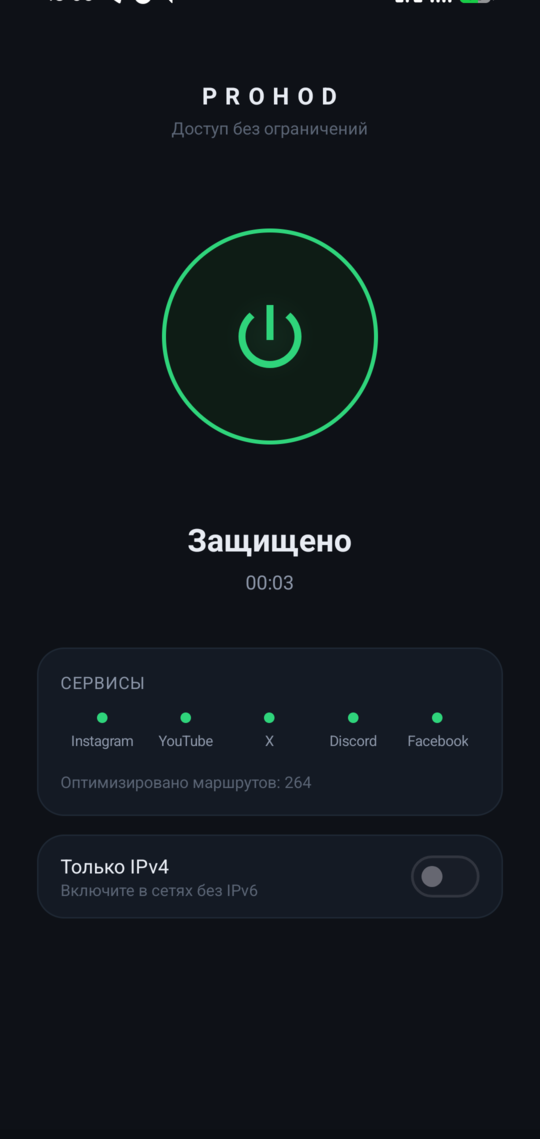
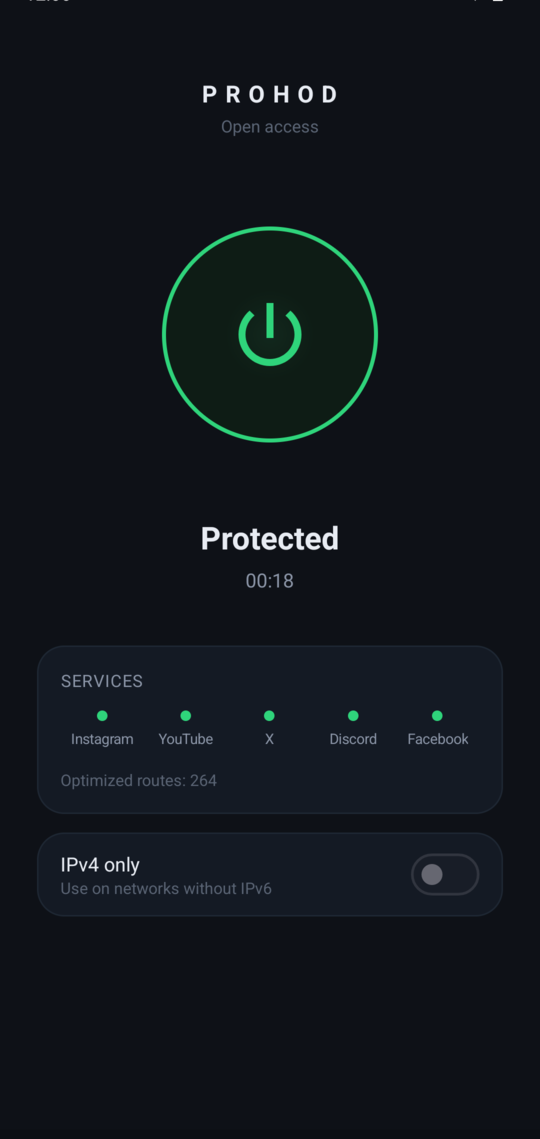
english ui and screenshots

diff --git a/frontend/src/main.ts b/frontend/src/main.ts
@@ -21,12 +21,12 @@ const icons = {
 const esc = (s: string) => s.replace(/[&<>"']/g, c => ({'&': '&amp;', '<': '&lt;', '>': '&gt;', '"': '&quot;', "'": '&#39;'}[c]!));
 
 function bytes(n: number): string {
-  const u = ['Б', 'КБ', 'МБ', 'ГБ', 'ТБ'];
+  const u = ['B', 'KB', 'MB', 'GB', 'TB'];
   let i = 0;
   while (n >= 1024 && i < u.length - 1) { n /= 1024; i++; }
   return (i === 0 ? n.toFixed(0) : n.toFixed(n < 10 ? 1 : 0)) + ' ' + u[i];
 }
-const speed = (n: number) => bytes(n) + '/с';
+const speed = (n: number) => bytes(n) + '/s';
 function dur(ms: number): string {
   const s = Math.max(0, Math.floor(ms / 1000));
   const h = Math.floor(s / 3600), m = Math.floor(s / 60) % 60, ss = s % 60;
@@ -36,9 +36,9 @@ function dur(ms: number): string {
 function ago(ms: number): string {
   if (!ms) return '';
   const s = Math.floor((Date.now() - ms) / 1000);
-  if (s < 60) return 'только что';
-  if (s < 3600) return `${Math.floor(s / 60)} мин назад`;
-  return `${Math.floor(s / 3600)} ч назад`;
+  if (s < 60) return 'just now';
+  if (s < 3600) return `${Math.floor(s / 60)} min ago`;
+  return `${Math.floor(s / 3600)} h ago`;
 }
 
 let tab = 'home';
@@ -53,10 +53,10 @@ app.innerHTML = `
   <div class="titlebar"></div>
   <main id="view"></main>
   <nav>
-    <button data-tab="home">${icons.home}Главная</button>
-    <button data-tab="services">${icons.grid}Сервисы</button>
-    <button data-tab="log">${icons.list}Журнал</button>
-    <button data-tab="settings">${icons.gear}Настройки</button>
+    <button data-tab="home">${icons.home}Home</button>
+    <button data-tab="services">${icons.grid}Services</button>
+    <button data-tab="log">${icons.list}Log</button>
+    <button data-tab="settings">${icons.gear}Settings</button>
   </nav>
   <div class="toast" id="toast"></div>`;
 const view = document.getElementById('view')!;
@@ -88,12 +88,12 @@ async function toggle() {
 function homeView(): string {
   const on = st.state === 'on';
   const busy = st.state === 'connecting' || st.state === 'stopping';
-  const title = on ? 'Защищено' : busy ? (st.state === 'connecting' ? 'Подключение' : 'Отключение') : 'Не подключено';
-  const sub = on ? dur(Date.now() - st.since) : (st.message || 'Нажмите, чтобы включить');
+  const title = on ? 'Protected' : busy ? (st.state === 'connecting' ? 'Connecting' : 'Disconnecting') : 'Not connected';
+  const sub = on ? dur(Date.now() - st.since) : (st.message || 'Tap to turn on');
   const s = snap;
   const checks = (st.checks || []).map(c => {
     const cls = !c.done ? 'wait' : c.ok ? 'ok' : 'bad';
-    const r = !c.done ? 'проверка…' : c.ok ? `доступен · ${c.ms} мс` : 'недоступен';
+    const r = !c.done ? 'checking…' : c.ok ? `reachable · ${c.ms} ms` : 'unreachable';
     return `<div class="check"><span>${esc(c.name)}</span><span class="r">${r}<span class="dot ${cls}"></span></span></div>`;
   }).join('');
   return `
@@ -102,8 +102,8 @@ function homeView(): string {
       <button class="power ${on ? 'on' : ''} ${busy ? 'busy' : ''}" id="power" aria-label="toggle">${icons.power}</button>
       <div class="state"><div class="title">${title}</div><div class="sub">${esc(sub)}</div></div>
       <div class="metrics">
-        <div class="metric"><div class="k">${icons.down} Получено</div><div class="v">${s ? bytes(s.bytesIn) : '—'}</div><div class="s">${s && on ? speed(s.speedIn) : ''}</div></div>
-        <div class="metric"><div class="k">${icons.up} Отправлено</div><div class="v">${s ? bytes(s.bytesOut) : '—'}</div><div class="s">${s && on ? speed(s.speedOut) : ''}</div></div>
+        <div class="metric"><div class="k">${icons.down} Received</div><div class="v">${s ? bytes(s.bytesIn) : '—'}</div><div class="s">${s && on ? speed(s.speedIn) : ''}</div></div>
+        <div class="metric"><div class="k">${icons.up} Sent</div><div class="v">${s ? bytes(s.bytesOut) : '—'}</div><div class="s">${s && on ? speed(s.speedOut) : ''}</div></div>
       </div>
       ${checks ? `<div class="checks">${checks}</div>` : ''}
     </div>`;
@@ -113,20 +113,20 @@ function servicesView(): string {
   const svcs = (snap?.services || []);
   const rows = svcs.map(v => {
     const used = v.ok + v.failed;
-    let cls = '', meta = 'нет активности';
+    let cls = '', meta = 'no activity';
     if (v.active > 0 || used > 0) {
       const rate = used ? v.ok / used : 1;
       cls = v.lastOk >= v.lastFail ? 'ok' : rate >= 0.5 ? 'wait' : 'bad';
-      meta = `${bytes(v.bytesIn + v.bytesOut)} · ${v.active ? 'активно' : ago(Math.max(v.lastOk, v.lastFail))}`;
+      meta = `${bytes(v.bytesIn + v.bytesOut)} · ${v.active ? 'active' : ago(Math.max(v.lastOk, v.lastFail))}`;
     }
     return `<div class="row"><span class="dot ${cls}"></span><div class="name">${esc(v.name)}</div><div class="meta">${meta}</div></div>`;
   }).join('');
   return `
-    <h2>Сервисы</h2>
-    <div class="card">${rows || '<div class="empty">Подключитесь, чтобы увидеть активность</div>'}</div>
-    <p class="hint">Зелёный — соединения проходят. Красный — сервис не отвечает в вашей сети.
-      Оптимизировано маршрутов: ${st.pinned}. Остальные сайты подбираются автоматически.</p>
-    ${snap ? `<p class="hint">Соединений: ${snap.connections} активно · ${snap.total} всего · ${snap.failed} без ответа</p>` : ''}`;
+    <h2>Services</h2>
+    <div class="card">${rows || '<div class="empty">Connect to see activity</div>'}</div>
+    <p class="hint">Green means connections get through. Red means the service does not answer on your network.
+      Optimized routes: ${st.pinned}. Other sites are handled automatically.</p>
+    ${snap ? `<p class="hint">Connections: ${snap.connections} active · ${snap.total} total · ${snap.failed} no answer</p>` : ''}`;
 }
 
 let logCache: Ent[] = [];
@@ -136,23 +136,23 @@ function logView(): string {
     return `<div class="ln"><span class="t">${t}</span> <span class="${esc(e.level)}">${esc(e.msg)}</span></div>`;
   }).join('');
   return `
-    <h2>Журнал</h2>
-    <div class="card"><div class="log" id="log">${lines || '<div class="empty">Пока пусто</div>'}</div></div>
-    <div class="toolbar"><button class="btn" id="openlogs">Открыть папку с журналом</button></div>`;
+    <h2>Log</h2>
+    <div class="card"><div class="log" id="log">${lines || '<div class="empty">Nothing yet</div>'}</div></div>
+    <div class="toolbar"><button class="btn" id="openlogs">Open log folder</button></div>`;
 }
 
 function settingsView(): string {
   const sw = (id: string, on: boolean) => `<label class="switch"><input type="checkbox" id="${id}" ${on ? 'checked' : ''}><span></span></label>`;
   return `
-    <h2>Настройки</h2>
+    <h2>Settings</h2>
     <div class="card">
-      <div class="row"><div class="name">Подключаться при запуске<div class="desc">Включать защиту сразу после открытия приложения</div></div>${sw('autoConnect', cfg.autoConnect)}</div>
-      <div class="row"><div class="name">Только IPv4<div class="desc">Если в вашей сети нестабилен IPv6. Применится при следующем подключении</div></div>${sw('ipv4Only', cfg.ipv4Only)}</div>
+      <div class="row"><div class="name">Connect on launch<div class="desc">Turn on protection as soon as the app opens</div></div>${sw('autoConnect', cfg.autoConnect)}</div>
+      <div class="row"><div class="name">IPv4 only<div class="desc">For networks where IPv6 is unreliable. Applies on the next connect</div></div>${sw('ipv4Only', cfg.ipv4Only)}</div>
     </div>
-    <h2>О программе</h2>
-    <div class="card"><div class="row"><div class="name">Prohod</div><div class="meta">версия ${esc(version)}</div></div></div>
-    <p class="hint">Работает локально на этом устройстве: без серверов, учётных записей и сбора данных.
-      Сторонние компоненты и их лицензии перечислены в файле LICENSES внутри приложения.</p>`;
+    <h2>About</h2>
+    <div class="card"><div class="row"><div class="name">Prohod</div><div class="meta">version ${esc(version)}</div></div></div>
+    <p class="hint">Runs locally on this device: no servers, no accounts, no data collection.
+      Bundled components and their licenses are listed in the LICENSES file inside the app.</p>`;
 }
 
 function bind() {

diff --git a/android/app/src/main/java/app/prohod/MainActivity.kt b/android/app/src/main/java/app/prohod/MainActivity.kt
@@ -65,7 +65,7 @@ class MainActivity : AppCompatActivity() {
         ipv4Switch.setOnCheckedChangeListener { _, checked -> Prefs.setIpv4Only(this, checked) }
 
         buildServiceChips()
-        routesInfo.text = "Оптимизировано маршрутов: ${Profile.pinnedCount(this)}"
+        routesInfo.text = "Optimized routes: ${Profile.pinnedCount(this)}"
     }
 
     private fun buildServiceChips() {
@@ -139,26 +139,26 @@ class MainActivity : AppCompatActivity() {
         val on = State.value == State.ON
         when (State.value) {
             State.ON -> {
-                statusTitle.text = "Защищено"
+                statusTitle.text = "Protected"
                 statusSub.text = elapsed()
                 powerButton.setBackgroundResource(R.drawable.power_ring_on)
                 tintIcon(R.color.accent_on)
             }
             State.CONNECTING -> {
-                statusTitle.text = "Подключение"
-                statusSub.text = "Устанавливаем защищённое соединение…"
+                statusTitle.text = "Connecting"
+                statusSub.text = "Establishing a secure connection…"
                 powerButton.setBackgroundResource(R.drawable.power_ring_connecting)
                 tintIcon(R.color.accent_connecting)
             }
             State.STOPPING -> {
-                statusTitle.text = "Отключение"
+                statusTitle.text = "Disconnecting"
                 statusSub.text = "…"
                 powerButton.setBackgroundResource(R.drawable.power_ring_connecting)
                 tintIcon(R.color.accent_connecting)
             }
             else -> {
-                statusTitle.text = "Не подключено"
-                statusSub.text = State.message ?: "Нажмите, чтобы включить"
+                statusTitle.text = "Not connected"
+                statusSub.text = State.message ?: "Tap to turn on"
                 powerButton.setBackgroundResource(R.drawable.power_ring_off)
                 tintIcon(R.color.accent_off)
             }

diff --git a/android/app/src/main/java/app/prohod/vpn/ProhodVpnService.kt b/android/app/src/main/java/app/prohod/vpn/ProhodVpnService.kt
@@ -58,7 +58,7 @@ class ProhodVpnService : VpnService() {
             } catch (e: Throwable) {
                 Log.e(TAG, "connect failed", e)
                 teardown()
-                State.set(State.OFF, "Не удалось подключиться")
+                State.set(State.OFF, "Couldn't connect")
                 stopSelfSafely()
             }
         }
@@ -186,12 +186,12 @@ class ProhodVpnService : VpnService() {
         )
         return NotificationCompat.Builder(this, CHANNEL)
             .setContentTitle("Prohod")
-            .setContentText("Защита включена")
+            .setContentText("Protection is on")
             .setSmallIcon(R.drawable.ic_stat)
             .setOngoing(true)
             .setCategory(NotificationCompat.CATEGORY_SERVICE)
             .setContentIntent(open)
-            .addAction(0, "Отключить", stop)
+            .addAction(0, "Disconnect", stop)
             .build()
     }
 

diff --git a/internal/core/core.go b/internal/core/core.go
@@ -67,7 +67,7 @@ type Controller struct {
 
 // SelfTestTargets are probed after connecting (TLS handshake through our own proxy).
 var SelfTestTargets = []struct{ Name, Host string }{
-	{"Интернет", "www.google.com"},
+	{"Internet", "www.google.com"},
 	{"Instagram", "www.instagram.com"},
 	{"YouTube", "www.youtube.com"},
 }
@@ -95,9 +95,9 @@ func New() (*Controller, error) {
 	c.status = Status{State: StateOff, Since: now(), Pinned: countPinned()}
 	if repaired, err := sysproxy.RepairStale(c.statePath); repaired {
 		if err != nil {
-			c.Log.Warnf("Восстановление сетевых настроек после прошлого сбоя: частично (%v)", err)
+			c.Log.Warnf("Network settings restored after a previous crash: partial (%v)", err)
 		} else {
-			c.Log.Infof("Сетевые настройки восстановлены после прошлого незавершённого сеанса")
+			c.Log.Infof("Network settings restored after a previous unfinished session")
 		}
 	}
 	return c, nil
@@ -141,7 +141,7 @@ func (c *Controller) Connect() error {
 		c.mu.Unlock()
 		return nil
 	}
-	c.setState(StateConnecting, "Подключение…")
+	c.setState(StateConnecting, "Connecting…")
 	c.status.Checks = nil
 	c.gen++
 	gen := c.gen
@@ -159,15 +159,15 @@ func (c *Controller) Connect() error {
 
 	path, err := engine.Prepare(filepath.Join(c.cacheDir, "core"))
 	if err != nil {
-		return fail(err, "Модуль защиты недоступен")
+		return fail(err, "The protection module is unavailable")
 	}
 	args, err := profile.Build(filepath.Join(c.cfgDir, "lists"), profile.Options{IPv4Only: settings.IPv4Only || !ipv6Works()})
 	if err != nil {
-		return fail(err, "Не удалось подготовить профиль")
+		return fail(err, "Could not prepare the profile")
 	}
 	proc, err := engine.Start(path, args)
 	if err != nil {
-		return fail(err, "Не удалось запустить модуль защиты")
+		return fail(err, "Could not start the protection module")
 	}
 	c.mu.Lock()
 	c.proc = proc
@@ -175,7 +175,7 @@ func (c *Controller) Connect() error {
 
 	fs, err := front.Listen(c.enginePort, profile.ServiceOf, c.Stats)
 	if err != nil {
-		return fail(err, "Не удалось открыть локальный порт")
+		return fail(err, "Could not open a local port")
 	}
 	c.mu.Lock()
 	c.front = fs
@@ -183,23 +183,23 @@ func (c *Controller) Connect() error {
 
 	st, err := sysproxy.Capture(fs.Port())
 	if err != nil {
-		return fail(err, "Не удалось прочитать сетевые настройки системы")
+		return fail(err, "Could not read the system network settings")
 	}
 	st.EnginePID = proc.Pid()
 	if err := sysproxy.SaveState(c.statePath, st); err != nil {
-		return fail(err, "Не удалось сохранить сетевые настройки")
+		return fail(err, "Could not save the network settings")
 	}
 	c.mu.Lock()
 	c.proxySt = st
 	c.mu.Unlock()
 	if err := sysproxy.Apply(st); err != nil {
-		return fail(err, "Не удалось применить сетевые настройки")
+		return fail(err, "Could not apply the network settings")
 	}
 
 	c.mu.Lock()
-	c.setState(StateOn, "Защита включена")
+	c.setState(StateOn, "Protection is on")
 	c.mu.Unlock()
-	c.Log.Infof("Подключено")
+	c.Log.Infof("Connected")
 	go c.watchEngine(gen, proc)
 	go c.selfTest(gen)
 	return nil
@@ -243,16 +243,16 @@ func (c *Controller) watchEngine(gen int, p *engine.Proc) {
 				_ = sysproxy.SaveState(c.statePath, c.proxySt)
 			}
 			c.mu.Unlock()
-			c.Log.Warnf("Модуль защиты перезапущен")
+			c.Log.Warnf("Protection module restarted")
 			go c.watchEngine(gen, np)
 			return
 		}
-		c.Log.Errorf("Перезапуск модуля не удался: %v", err)
+		c.Log.Errorf("Module restart failed: %v", err)
 	}
-	c.Log.Errorf("Модуль защиты остановился, соединение отключено")
+	c.Log.Errorf("Protection module stopped, connection closed")
 	_ = c.Disconnect()
 	c.mu.Lock()
-	c.status.Message = "Отключено из-за сбоя модуля"
+	c.status.Message = "Disconnected after a module failure"
 	c.mu.Unlock()
 }
 
@@ -286,9 +286,9 @@ func (c *Controller) selfTest(gen int) {
 	st := c.Status()
 	for _, ch := range st.Checks {
 		if ch.OK {
-			c.Log.Infof("Проверка «%s»: доступно (%d мс)", ch.Name, ch.Ms)
+			c.Log.Infof("Check \"%s\": reachable (%d ms)", ch.Name, ch.Ms)
 		} else {
-			c.Log.Warnf("Проверка «%s»: недоступно", ch.Name)
+			c.Log.Warnf("Check \"%s\": unreachable", ch.Name)
 		}
 	}
 }
@@ -326,7 +326,7 @@ func (c *Controller) teardown() {
 	c.mu.Unlock()
 	if st != nil {
 		if err := sysproxy.Restore(st); err != nil {
-			c.Log.Errorf("Восстановление сетевых настроек: %v", err)
+			c.Log.Errorf("Restoring network settings: %v", err)
 		} else {
 			_ = os.Remove(c.statePath)
 		}
@@ -347,14 +347,14 @@ func (c *Controller) Disconnect() error {
 		c.mu.Unlock()
 		return nil
 	}
-	c.setState(StateStopping, "Отключение…")
+	c.setState(StateStopping, "Disconnecting…")
 	c.mu.Unlock()
 	c.teardown()
 	c.mu.Lock()
-	c.setState(StateOff, "Защита выключена")
+	c.setState(StateOff, "Protection is off")
 	c.status.Checks = nil
 	c.mu.Unlock()
-	c.Log.Infof("Отключено")
+	c.Log.Infof("Disconnected")
 	return nil
 }
 
@@ -367,7 +367,7 @@ func (c *Controller) Shutdown() {
 // StartGuard launches the watchdog process once per app run (it outlives a crash of this process).
 func (c *Controller) StartGuard() {
 	if err := guard.Spawn(c.statePath); err != nil {
-		c.Log.Warnf("Сторож не запущен: %v", err)
+		c.Log.Warnf("Guard did not start: %v", err)
 	}
 }
 

diff --git a/README.md b/README.md
@@ -13,7 +13,7 @@ an account or rent a server, and your traffic never leaves through someone else'
 
 ## What it actually does
 
-A lot of "blocking" in Russia and nearby countries happens at the TLS handshake. The
+A lot of "blocking" happens at the TLS handshake. The
 provider reads the site name (SNI) in the first packet and drops the connection. Prohod
 splits and reorders that first packet so the name never appears as one clean string, while
 the real server still understands it. The site opens; the filter sees noise.
@@ -104,5 +104,5 @@ MIT. See [LICENSE](LICENSE). Bundled components keep their own licenses, listed 
 🇷🇺 **[Читать по-русски →](docs/README.ru.md)**
 
 <sub>Keywords: DPI bypass, deep packet inspection, SNI filtering, unblock Instagram, unblock
-YouTube, Roskomnadzor / РКН, censorship circumvention, ByeDPI GUI, zapret alternative, Amnezia
-alternative, no-VPN unblocker, macOS, Linux, Android.</sub>
+YouTube, censorship circumvention, ByeDPI GUI, zapret alternative, Amnezia alternative,
+no-VPN unblocker, macOS, Linux, Android.</sub>
